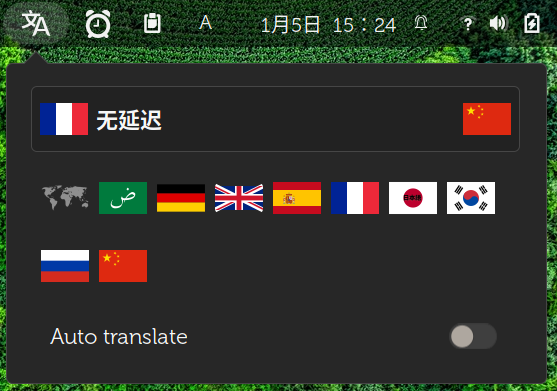
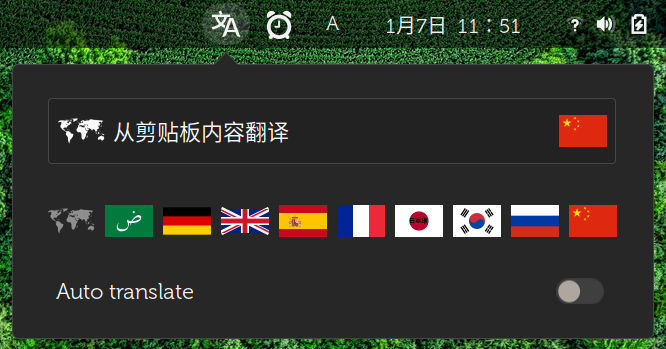
zh_CN翻译.mo

diff --git a/extension.js b/extension.js
@@ -22,7 +22,7 @@ let from = 'auto';
 let to = 'zh';
 let newtext = false;
 
-const IconPerLine = 8;
+const IconPerLine = 10;
 const AutoIcon = 'global-symbolic';
 
 const MD5 = Me.imports.md5;

diff --git a/README.md b/README.md
@@ -33,6 +33,10 @@ auto translate selected text to locale language. (X selection "primary" / XA_PRI
 │   ├── translator-symbolic.svg
 │   ├── trans-symbolic.svg
 │   └── zh.svg
+├── locale
+│   └── zh_CN
+│       └── LC_MESSAGES
+│           └── clip-translator.mo
 ├── md5.js
 ├── metadata.json
 └── stylesheet.css
